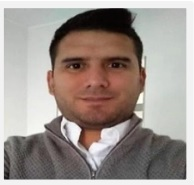
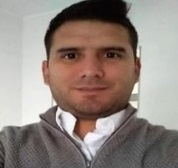
nuevos archivos para trabajo CSS

diff --git a/index.html b/index.html
@@ -5,18 +5,27 @@
     <meta http-equiv="X-UA-Compatible" content="IE=edge">
     <meta name="viewport" content="width=device-width, initial-scale=1.0">
     <title>Currículum Vitae - Sergio Sainz</title>
+    <link rel="stylesheet" href="index.css">
 </head>
 <body>
     <header>Currículum Vitae - Sergio Sainz</header>
     <nav>
         <a href="experiencia.html">Experiencia laboral</a>
+        <a href="contacto.html">Contacto</a>
     </nav>
-    <img src="fotocv.jpg" alt="Sergio Sainz" title="Sergio Sainz">
-    <section>
+   <!-- Para aplicar clases y flexbox, cambio la imagen a la etiqueta section -->
+    <section class="contenedor">
+        <div>
+        <img class="imagen" src="fotocv.jpg" alt="Sergio Sainz" title="Sergio Sainz">
+        </div>
+
+        <div>
         <h1>Presentación</h1>
         <p>
             Perfil administrativo con más de 10 años de experiencia para la eficiencia al servicio del afiliado. Me presento como una persona responsable y comprometida en la entrega de informes o documentación confidencial, respetando los tiempos previstos por mis superiores y con ganas de incorporarme para participar y cooperar en un equipo profesional. Poseo buen manejo de herramientas informáticas con capacidad analítica para dar respuestas o soluciones inmediatas de manera individual o grupal.
         </p>
+        </div>  
+
     </section>
     <footer>Contacto: sergiosainz.proyectos@gmail.com</footer>
 </body>

diff --git a/index.css b/index.css
@@ -1,0 +1,53 @@
+*{
+    padding: 0px;
+    margin: 0px;
+}
+body{
+    background-color: #AEB6BF;
+}
+
+header{
+    background-color: #212F3D;
+    color: #808B96;
+    font-family: Verdana, Geneva, Tahoma, sans-serif;
+    font-size: 10px;
+    text-align: center;
+}
+nav{
+    background-color: #2C3E50;
+    padding: 10px;
+}
+
+a:link, a:visited, a:active {
+    text-decoration:none;
+    color: #AAB7B8;
+    padding: 10px;
+    font-family: Arial, Helvetica, sans-serif;
+    font-size: 15px;
+}
+
+a:hover{
+    color: #D5D8DC;
+    font-weight:600;
+    box-shadow: 1px 1px 1px 1px #AAB7B8;
+    border-radius: 5px;
+    transition: 0.1s;
+}
+
+.contenedor{
+    display: flex;
+    gap: 10px;
+}
+
+.imagen{
+    border-radius: 10px;
+    margin: 10px;
+}
+
+.presentacion{
+    font-family: Arial, Helvetica, sans-serif;
+    padding: 10px;
+    margin: 10px;
+    background-color: aqua;
+    
+}

diff --git a/contacto.html b/contacto.html
@@ -1,0 +1,12 @@
+<!DOCTYPE html>
+<html lang="en">
+<head>
+    <meta charset="UTF-8">
+    <meta http-equiv="X-UA-Compatible" content="IE=edge">
+    <meta name="viewport" content="width=device-width, initial-scale=1.0">
+    <title>Document</title>
+</head>
+<body>
+    
+</body>
+</html>
